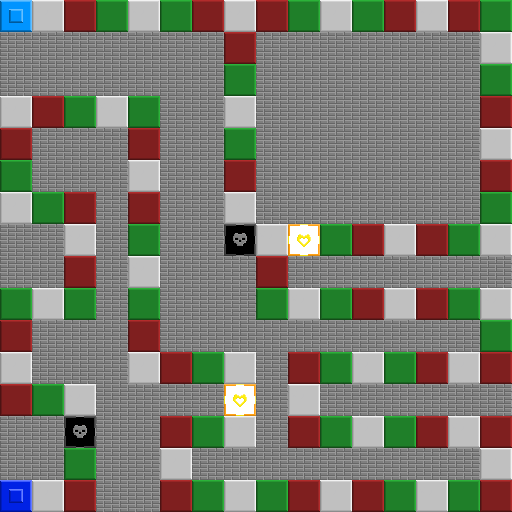
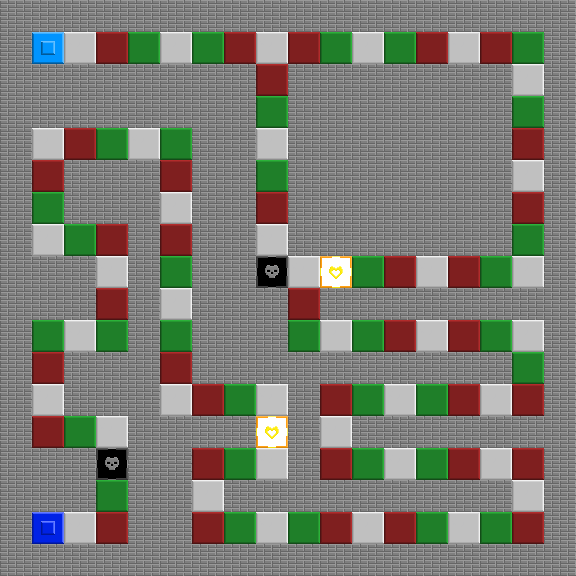
tamanho dos mapas

diff --git a/index.js b/index.js
@@ -38,26 +38,28 @@ class Player {
     }
 }
 
-let arrMapa1 = [8, 0, 0, 0, 0, 0, 0, 0, 0, 0, 0, 0, 0, 0, 0, 0, 2, 2, 1, 3, 3, 1, 2, 2, 1, 3, 3, 1, 2, 2, 1, 3, 0, 0, 0, 0, 0, 0, 0, 0, 0, 0, 0, 0, 0, 0, 0, 3, 1, 2, 2, 1, 3, 3, 1, 2, 2, 1, 3, 3, 1, 2, 2, 1, 3, 0, 0, 0, 0, 0, 0, 0, 0, 0, 0, 0, 0, 0, 0, 0, 3, 1, 2, 2, 1, 3, 3, 1, 2, 2, 1, 3, 3, 1, 2, 2, 0, 0, 0, 0, 0, 0, 0, 0, 0, 0, 0, 0, 0, 0, 0, 1, 2, 1, 3, 3, 1, 2, 2, 1, 3, 3, 1, 2, 2, 1, 3, 3, 2, 0, 0, 0, 0, 0, 0, 0, 0, 0, 0, 0, 0, 0, 0, 0, 1, 3, 3, 1, 2, 2, 1, 3, 3, 1, 2, 2, 1, 3, 3, 1, 0, 0, 0, 0, 0, 0, 0, 0, 0, 0, 0, 0, 0, 0, 0, 2, 3, 3, 1, 2, 2, 1, 3, 3, 1, 2, 2, 1, 3, 3, 1, 2, 1, 0, 0, 0, 0, 0, 0, 0, 0, 0, 0, 0, 0, 0, 0, 0, 2, 2, 1, 3, 3, 1, 2, 2, 1, 3, 3, 1, 2, 2, 1, 3, 0, 0, 0, 0, 0, 0, 0, 0, 0, 0, 0, 0, 0, 0, 0, 3, 9, 2, 2, 1, 3, 3, 1, 2, 2, 1, 3, 3, 1, 2, 2, 1];
-const mapa1 = new Mapa(arrMapa1, 512, 512);
+let arrMapa1 = [0, 0, 0, 0, 0, 0, 0, 0, 0, 0, 0, 0, 0, 0, 0, 0, 0, 0, 0, 8, 0, 0, 0, 0, 0, 0, 0, 0, 0, 0, 0, 0, 0, 0, 0, 0, 0, 2, 2, 1, 3, 3, 1, 2, 2, 1, 3, 3, 1, 2, 2, 1, 3, 0, 0, 0, 0, 0, 0, 0, 0, 0, 0, 0, 0, 0, 0, 0, 0, 0, 3, 0, 0, 1, 2, 2, 1, 3, 3, 1, 2, 2, 1, 3, 3, 1, 2, 2, 1, 0, 0, 3, 0, 0, 0, 0, 0, 0, 0, 0, 0, 0, 0, 0, 0, 0, 0, 0, 0, 3, 1, 2, 2, 1, 3, 3, 1, 2, 2, 1, 3, 3, 1, 2, 2, 0, 0, 0, 0, 0, 0, 0, 0, 0, 0, 0, 0, 0, 0, 0, 0, 0, 1, 0, 0, 2, 1, 3, 3, 1, 2, 2, 1, 3, 3, 1, 2, 2, 1, 3, 3, 0, 0, 2, 0, 0, 0, 0, 0, 0, 0, 0, 0, 0, 0, 0, 0, 0, 0, 0, 0, 1, 3, 3, 1, 2, 2, 1, 3, 3, 1, 2, 2, 1, 3, 3, 1, 0, 0, 0, 0, 0, 0, 0, 0, 0, 0, 0, 0, 0, 0, 0, 0, 0, 2, 0, 0, 3, 3, 1, 2, 2, 1, 3, 3, 1, 2, 2, 1, 3, 3, 1, 2, 0, 0, 1, 0, 0, 0, 0, 0, 0, 0, 0, 0, 0, 0, 0, 0, 0, 0, 0, 0, 2, 2, 1, 3, 3, 1, 2, 2, 1, 3, 3, 1, 2, 2, 1, 3, 0, 0, 0, 0, 0, 0, 0, 0, 0, 0, 0, 0, 0, 0, 0, 0, 0, 3, 0, 0, 9, 2, 2, 1, 3, 3, 1, 2, 2, 1, 3, 3, 1, 2, 2, 1, 0, 0, 0, 0, 0, 0, 0, 0, 0, 0, 0, 0, 0, 0, 0, 0, 0, 0, 0];
+const mapa1 = new Mapa(arrMapa1, 576, 576);
 
-let arrMapa2 = [8, 1, 3, 2, 1, 2, 3, 1, 3, 2, 1, 2, 3, 1, 3, 2,
-    0, 0, 0, 0, 0, 0, 0, 3, 0, 0, 0, 0, 0, 0, 0, 1,
-    0, 0, 0, 0, 0, 0, 0, 2, 0, 0, 0, 0, 0, 0, 0, 2,
-    1, 3, 2, 1, 2, 0, 0, 1, 0, 0, 0, 0, 0, 0, 0, 3,
-    3, 0, 0, 0, 3, 0, 0, 2, 0, 0, 0, 0, 0, 0, 0, 1,
-    2, 0, 0, 0, 1, 0, 0, 3, 0, 0, 0, 0, 0, 0, 0, 3,
-    1, 2, 3, 0, 3, 0, 0, 1, 0, 0, 0, 0, 0, 0, 0, 2,
-    0, 0, 1, 0, 2, 0, 0, 7, 1, 4, 2, 3, 1, 3, 2, 1,
-    0, 0, 3, 0, 1, 0, 0, 0, 3, 0, 0, 0, 0, 0, 0, 0,
-    2, 1, 2, 0, 2, 0, 0, 0, 2, 1, 2, 3, 1, 3, 2, 1,
-    3, 0, 0, 0, 3, 0, 0, 0, 0, 0, 0, 0, 0, 0, 0, 2,
-    1, 0, 0, 0, 1, 3, 2, 1, 0, 3, 2, 1, 2, 3, 1, 3,
-    3, 2, 1, 0, 0, 0, 0, 4, 0, 1, 0, 0, 0, 0, 0, 0,
-    0, 0, 7, 0, 0, 3, 2, 1, 0, 3, 2, 1, 2, 3, 1, 3,
-    0, 0, 2, 0, 0, 1, 0, 0, 0, 0, 0, 0, 0, 0, 0, 1,
-    9, 1, 3, 0, 0, 3, 2, 1, 2, 3, 1, 3, 2, 1, 2, 3];
-const mapa2 = new Mapa(arrMapa2, 512, 512);
+let arrMapa2 = [0, 0, 0, 0, 0, 0, 0, 0, 0, 0, 0, 0, 0, 0, 0, 0, 0, 0,
+    0, 8, 1, 3, 2, 1, 2, 3, 1, 3, 2, 1, 2, 3, 1, 3, 2, 0,
+    0, 0, 0, 0, 0, 0, 0, 0, 3, 0, 0, 0, 0, 0, 0, 0, 1, 0,
+    0, 0, 0, 0, 0, 0, 0, 0, 2, 0, 0, 0, 0, 0, 0, 0, 2, 0,
+    0, 1, 3, 2, 1, 2, 0, 0, 1, 0, 0, 0, 0, 0, 0, 0, 3, 0,
+    0, 3, 0, 0, 0, 3, 0, 0, 2, 0, 0, 0, 0, 0, 0, 0, 1, 0,
+    0, 2, 0, 0, 0, 1, 0, 0, 3, 0, 0, 0, 0, 0, 0, 0, 3, 0,
+    0, 1, 2, 3, 0, 3, 0, 0, 1, 0, 0, 0, 0, 0, 0, 0, 2, 0,
+    0, 0, 0, 1, 0, 2, 0, 0, 7, 1, 4, 2, 3, 1, 3, 2, 1, 0,
+    0, 0, 0, 3, 0, 1, 0, 0, 0, 3, 0, 0, 0, 0, 0, 0, 0, 0,
+    0, 2, 1, 2, 0, 2, 0, 0, 0, 2, 1, 2, 3, 1, 3, 2, 1, 0,
+    0, 3, 0, 0, 0, 3, 0, 0, 0, 0, 0, 0, 0, 0, 0, 0, 2, 0,
+    0, 1, 0, 0, 0, 1, 3, 2, 1, 0, 3, 2, 1, 2, 3, 1, 3, 0,
+    0, 3, 2, 1, 0, 0, 0, 0, 4, 0, 1, 0, 0, 0, 0, 0, 0, 0,
+    0, 0, 0, 7, 0, 0, 3, 2, 1, 0, 3, 2, 1, 2, 3, 1, 3, 0,
+    0, 0, 0, 2, 0, 0, 1, 0, 0, 0, 0, 0, 0, 0, 0, 0, 1, 0,
+    0, 9, 1, 3, 0, 0, 3, 2, 1, 2, 3, 1, 3, 2, 1, 2, 3, 0,
+    0, 0, 0, 0, 0, 0, 0, 0, 0, 0, 0, 0, 0, 0, 0, 0, 0, 0, 0];
+const mapa2 = new Mapa(arrMapa2, 576, 576);
 
 let arrMapa3 = [0, 0, 0, 0, 0, 0, 0, 0, 0, 0, 0, 0, 0, 0, 0, 0, 0, 0, 0, 0, 0, 0, 0, 0, 0, 0,
     0, 0, 0, 0, 0, 0, 0, 0, 1, 2, 3, 1, 3, 2, 1, 2, 3, 1, 3, 2, 1, 2, 3, 1, 8, 0,
@@ -176,7 +178,7 @@ function startGame() {
     mapaSelecionado = parseInt(document.querySelector('input[name="mapselect"]:checked').value);
     console.log("numero de players: " + numberOfPlayers);
     console.log("mapa selecionado: " + mapaSelecionado);
-    switch(mapaSelecionado){
+    switch (mapaSelecionado) {
         case 1:
             currMap = mapa1;
             break;

diff --git a/index.css b/index.css
@@ -114,7 +114,7 @@ label {
 	border-style: solid;
 	border-color: white;
 	font-size: 20pt;
-	width: 6%;
+	width: 50px;
 }
 
 .menu {

diff --git a/imageConverter.py b/imageConverter.py
@@ -1,13 +1,13 @@
 from PIL import Image
 
 im = Image.open('mapa.png')
-pix = im.load()
+im = im.convert('RGB')
 width, height = im.size
 out = []
 
 for y in range(0, height):
     for x in range(0, width):
-        r, g, b = pix[x, y]
+        r, g, b = im.getpixel((x, y))
         if(r == 0 and g == 0 and b == 255):
             out.append(8)
         elif(r == 255 and g == 255 and b == 0):
